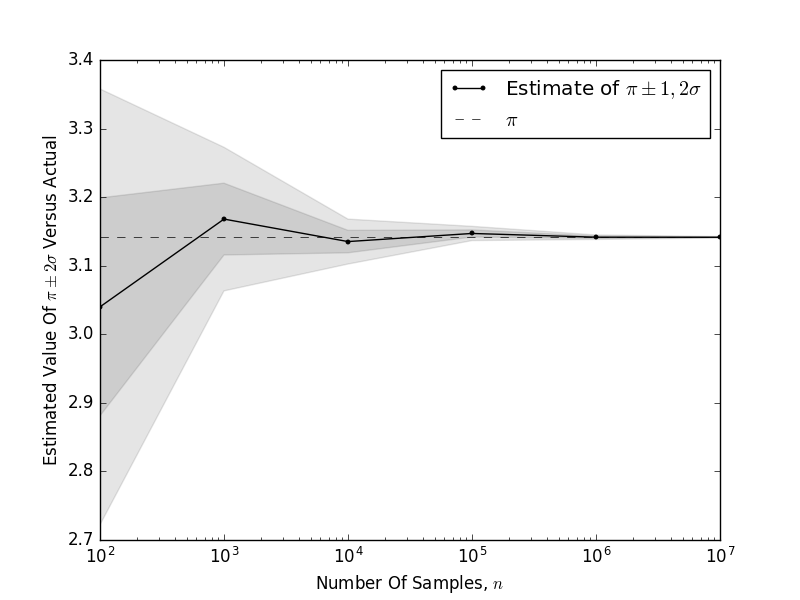
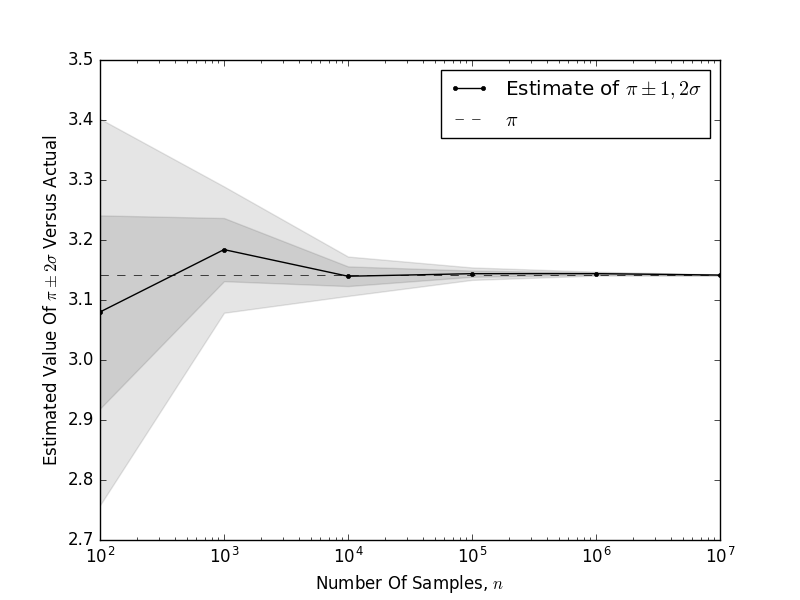
Updated plots to display density properly

diff --git a/03_Monte_Carlo_Pi/MC_pi_complicated.py b/03_Monte_Carlo_Pi/MC_pi_complicated.py
@@ -81,11 +81,10 @@ xe4, ye4, pie4, relerre4 = calc_pi(1e4)
 xe6, ye6, pie6, relerre6 = calc_pi(1e6)
 
 plte2 = my2dhist(xe2, ye2, title=r'$\pi$ estimated as {:.5f} using {:d} samples'.format(pie2, int(1e2)))
-plte4 = my2dhist(xe4, ye4, title=r'$\pi$ estimated as {:.5f} using {:d} samples'.format(pie4, int(1e4)))
-plte6 = my2dhist(xe6, ye6, title=r'$\pi$ estimated as {:.5f} using {:d} samples'.format(pie6, int(1e6)))
-
 plte2.savefig('plot_complicated_MC_pi_density_1e2_pts.png')
+plte4 = my2dhist(xe4, ye4, title=r'$\pi$ estimated as {:.5f} using {:d} samples'.format(pie4, int(1e4)))
 plte4.savefig('plot_complicated_MC_pi_density_1e4_pts.png')
+plte6 = my2dhist(xe6, ye6, title=r'$\pi$ estimated as {:.5f} using {:d} samples'.format(pie6, int(1e6)))
 plte6.savefig('plot_complicated_MC_pi_density_1e6_pts.png')
 
 ################################################################################
@@ -116,5 +115,5 @@ plt.xlabel('Number Of Samples, $n$')
 plt.ylabel(r'Estimated Value Of $\pi\pm2\sigma$ Versus Actual')
 
 plt.savefig('plot_complicted_MC_pi_convergence.png')
-plt.show()
+#plt.show()
 
